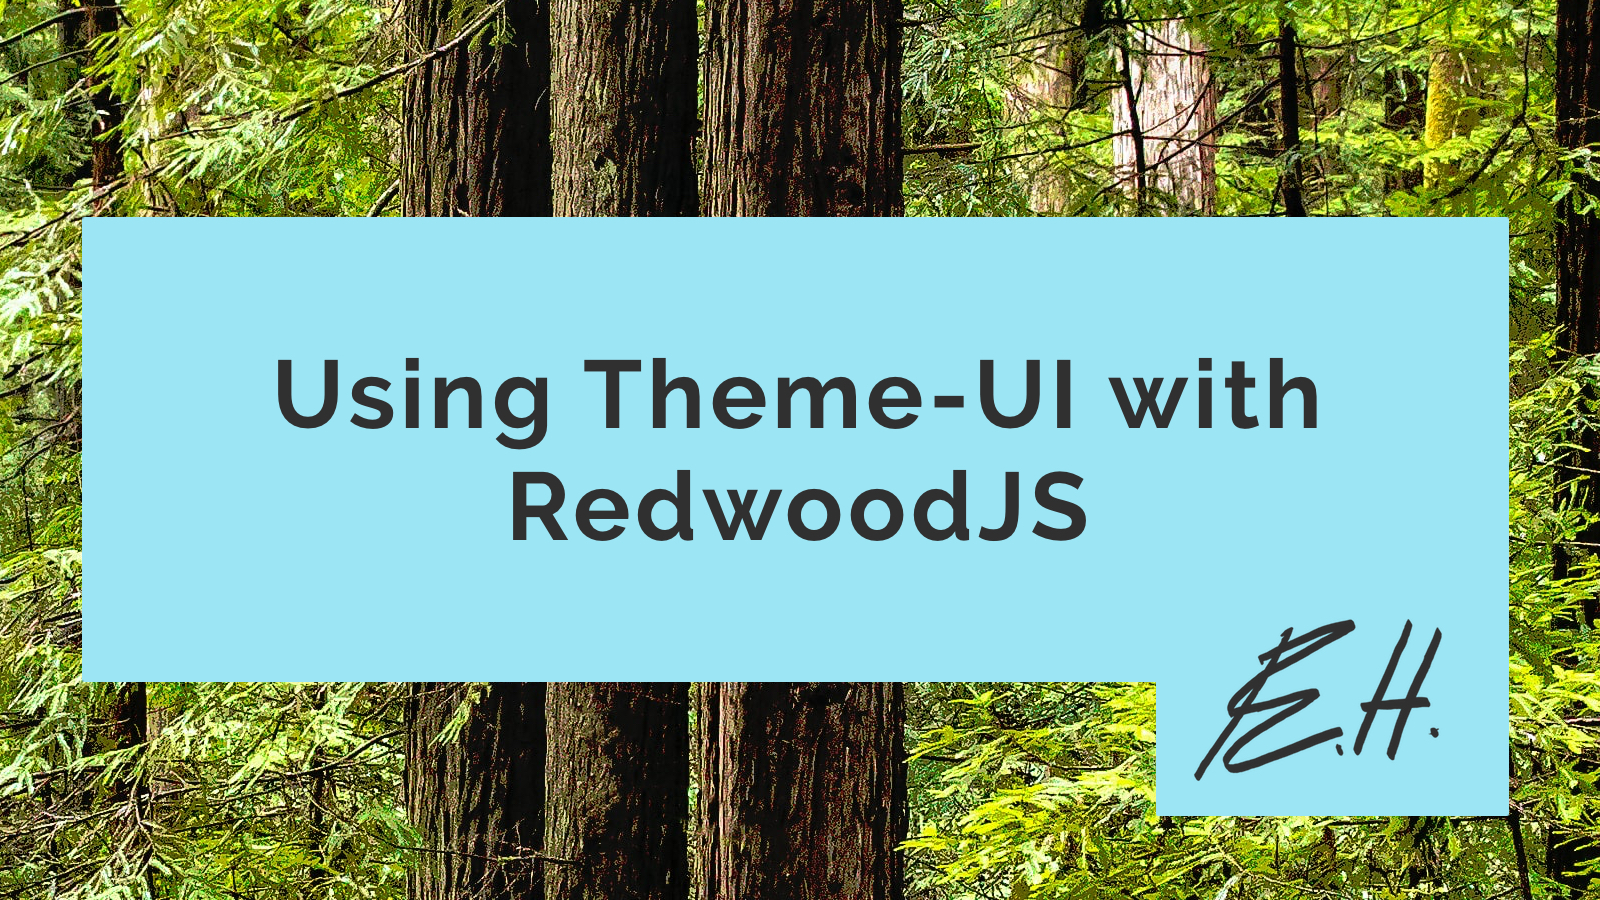
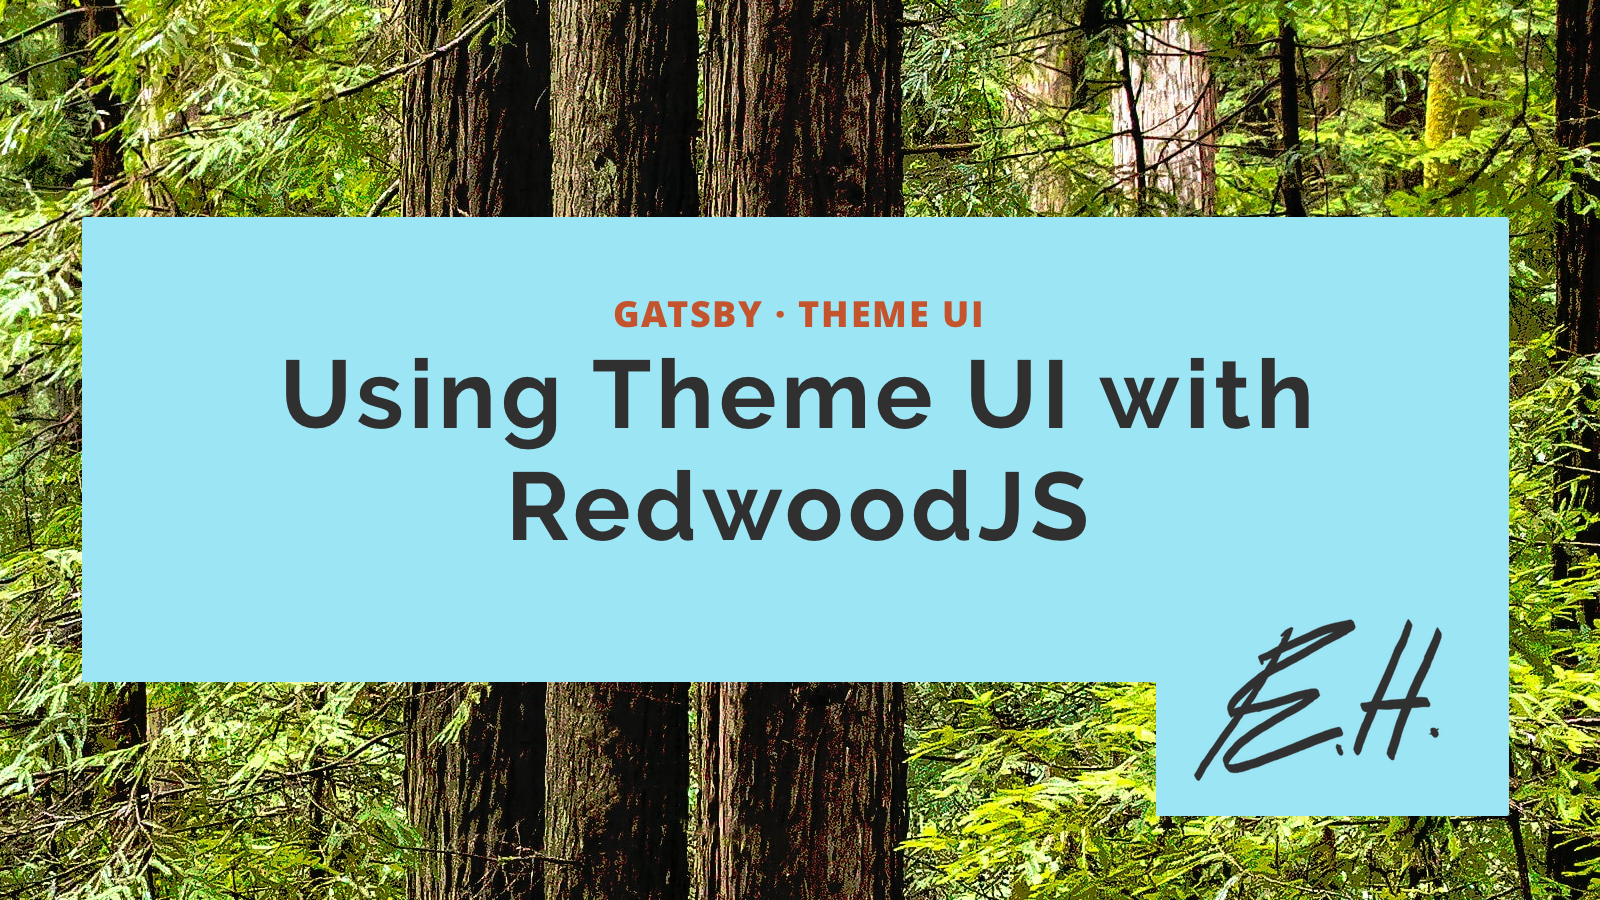
Variants post and some other optimizations

Changed region(s): [[0.1562, 0.4044, 0.8438, 0.4978], [0.375, 0.3111, 0.625, 0.3733]]

diff --git a/src/components/post-list.js b/src/components/post-list.js
@@ -16,7 +16,7 @@ const PostsList = ({ posts }) => {
       <PostListContainer>
         <SEO
           title="writing"
-          description="Eric Howey's writings focusing on JAMStack, Gatsby,and Theme-UI. Posts are updated over time as necessary. Enjoy!"
+          description="Eric Howey's writings focusing on JAMStack, Gatsby,and Theme UI. Posts are updated over time as necessary. Enjoy!"
         />
         {posts.map((post) => {
           const title = post.title || post.slug

diff --git a/src/components/post/post-image.js b/src/components/post/post-image.js
@@ -2,13 +2,12 @@
 import { jsx } from "theme-ui"
 import Img from "gatsby-image"
 
-const PostImage = props => {
+const PostImage = (props) => {
   return (
     <Img
       sx={{
         gridColumn: "1 / -1",
-        gridRow: [null, "1 / 2", "1 / 3", null, null],
-        display: ["none", "block", null, null, null],
+        gridRow: ["1 / 2", null, "1 / 3", null, null],
         zIndex: 10,
         width: "100%",
         maxWidth: "maxPageWidth",

diff --git a/src/components/post/post-container.js b/src/components/post/post-container.js
@@ -1,14 +1,14 @@
 /** @jsx jsx */
 import { jsx } from "theme-ui"
 
-const PostContainer = props => {
+const PostContainer = (props) => {
   return (
     <div
       sx={{
         variant: "variants.postContainer",
         display: "grid",
         gridTemplateRows: [
-          "auto",
+          "150px auto",
           "250px auto",
           "150px 250px auto",
           null,

diff --git a/src/components/post.js b/src/components/post.js
@@ -24,7 +24,7 @@ const Post = ({ data: { post }, previous, next }) => (
       <div
         sx={{
           gridColumn: "2 / 3",
-          gridRow: ["1 / -1", "2 / -1", null, null, null],
+          gridRow: "2 / -1",
           zIndex: 20,
           bg: "background",
           p: [3, null, 4, null, null],
